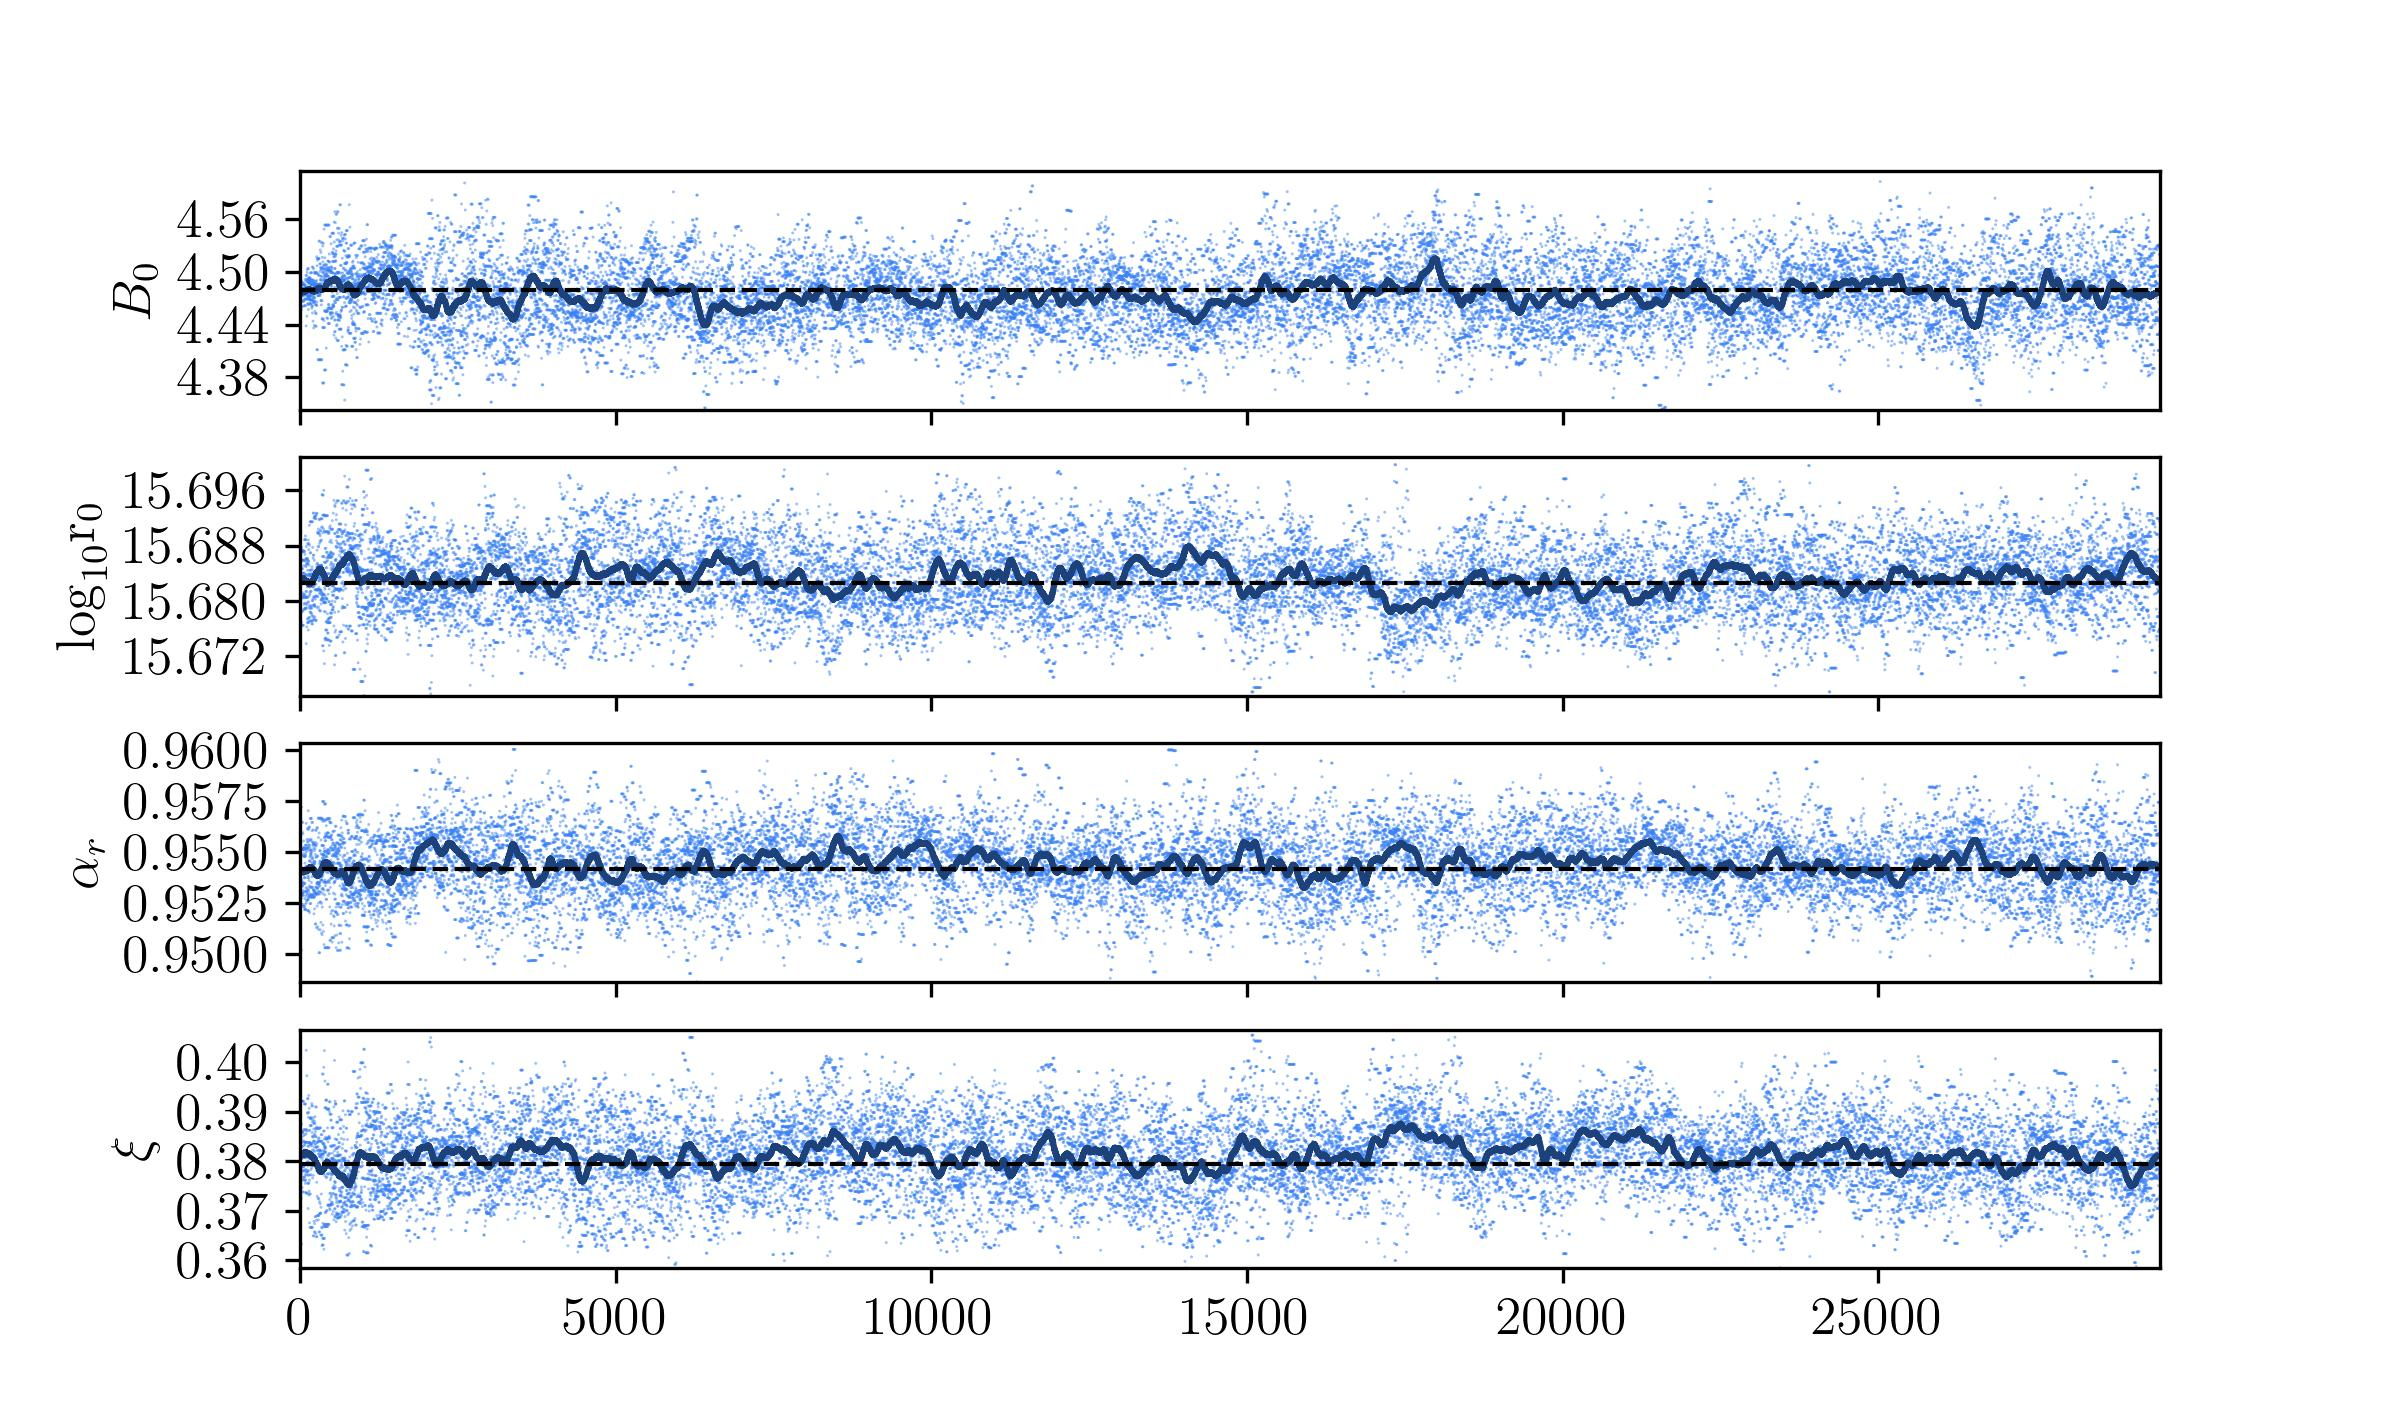
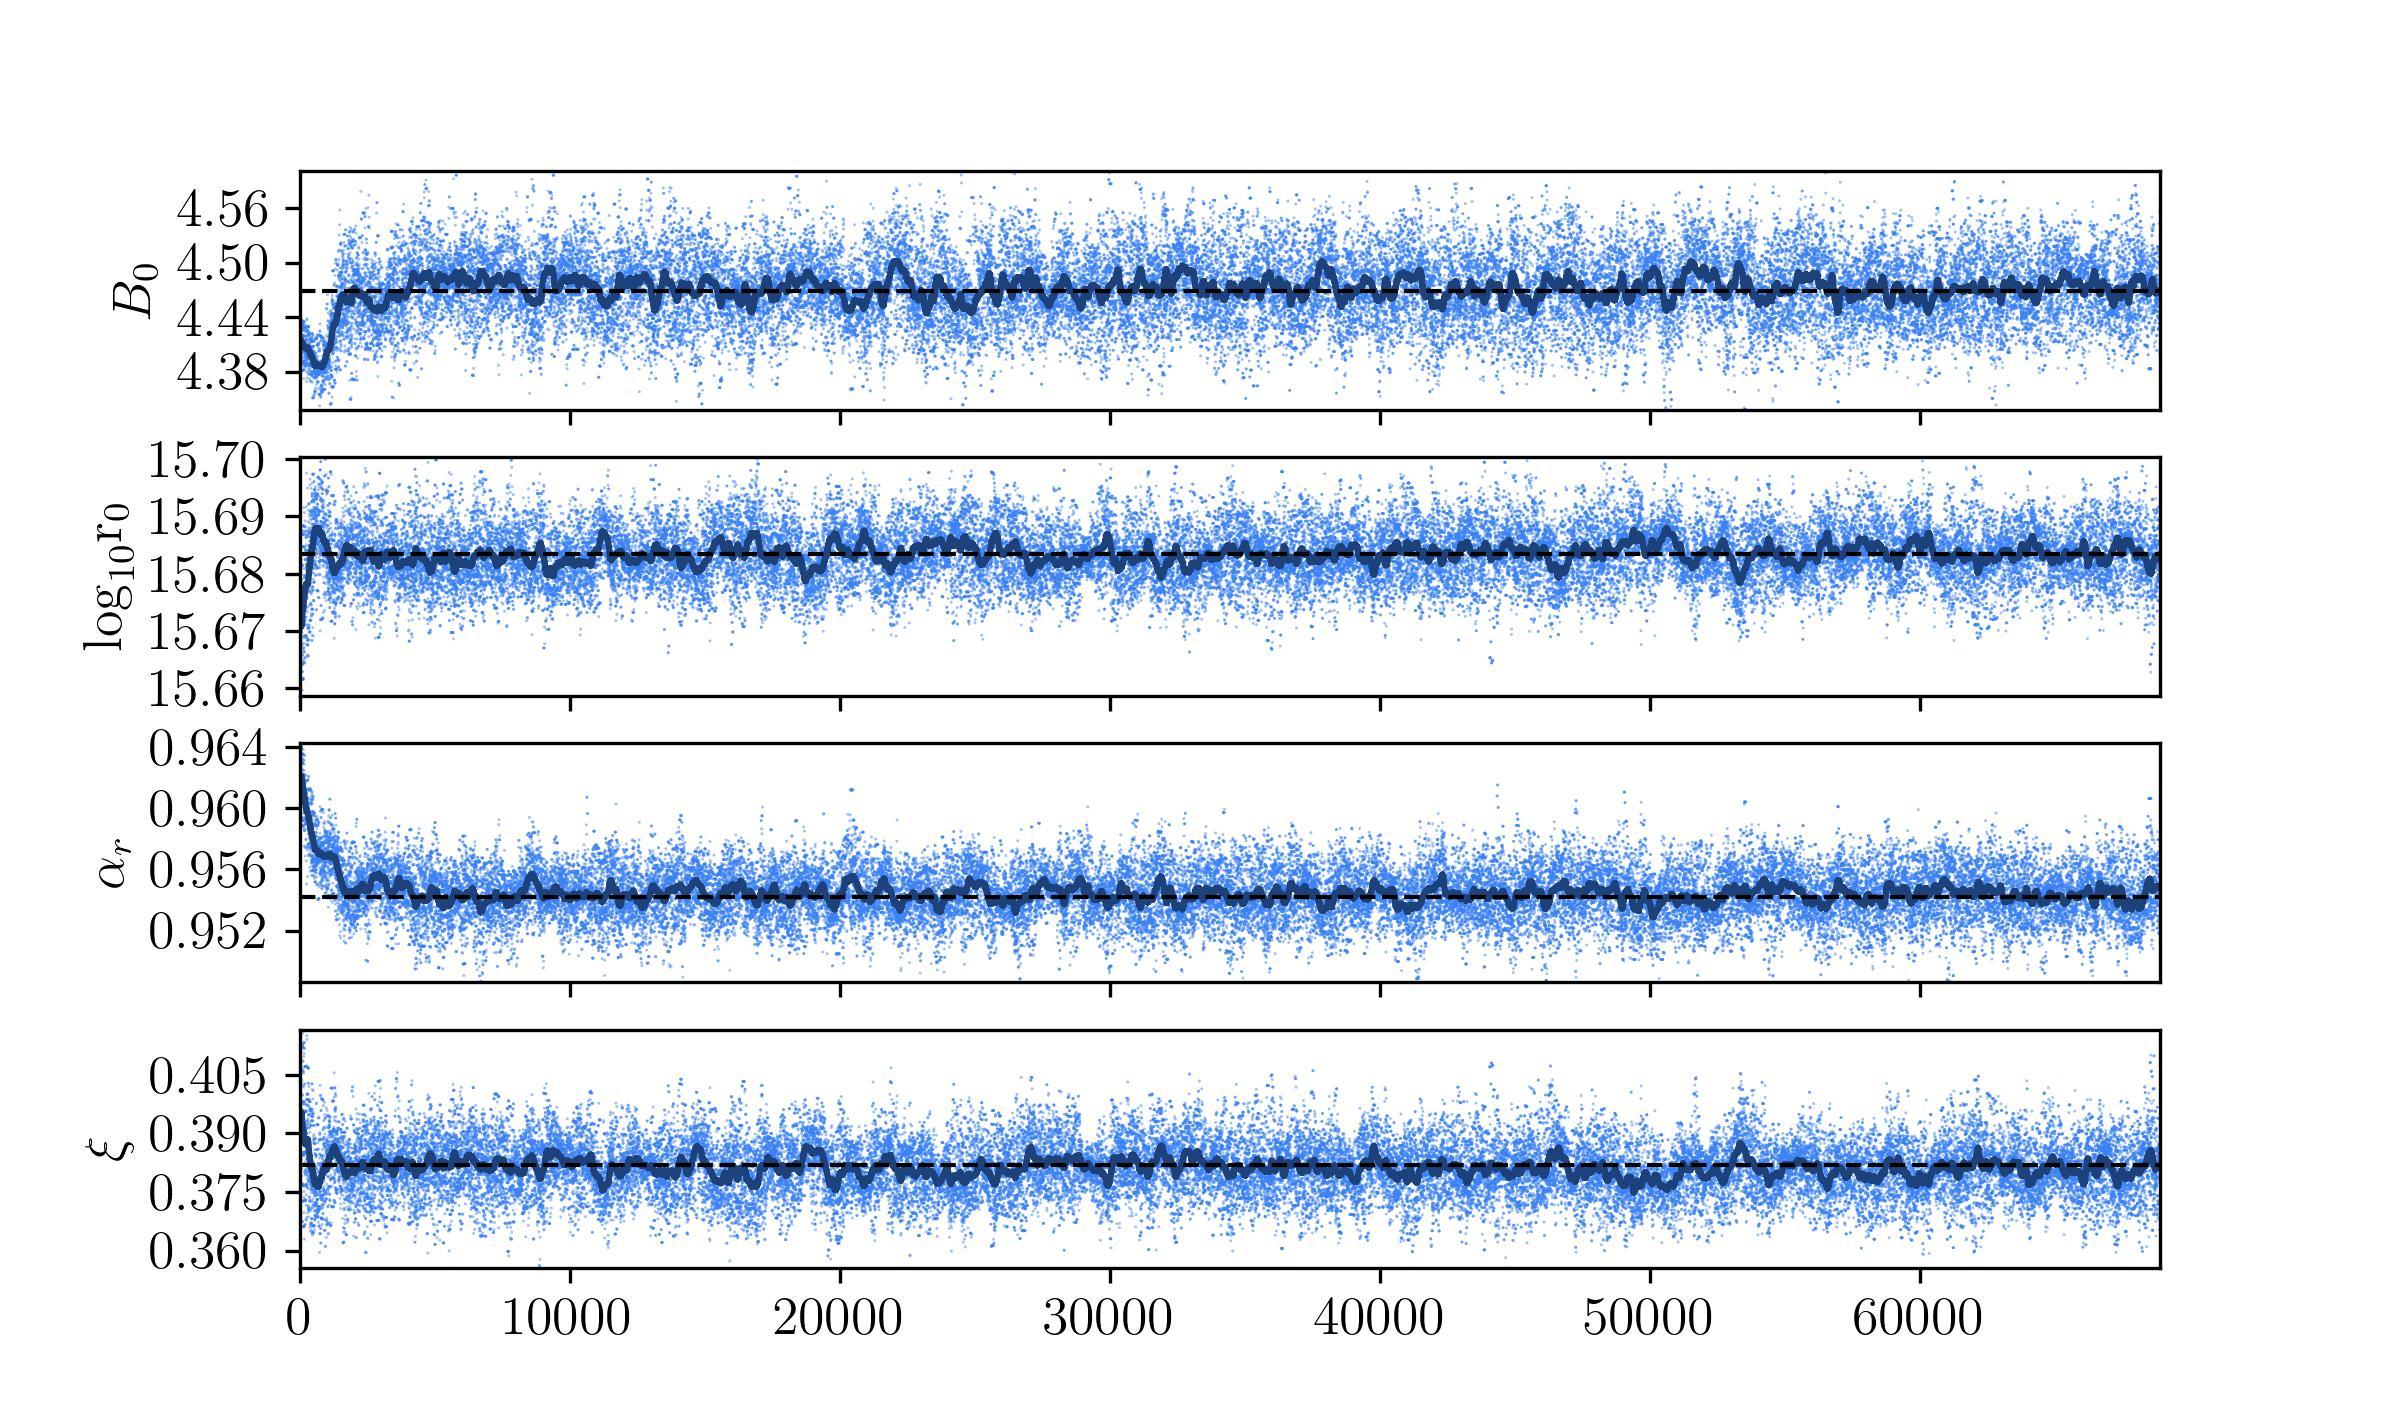
Corrected some errors in the plotting scripts and added a chi_sq calculation

diff --git a/plot_lc.py b/plot_lc.py
@@ -42,63 +42,40 @@ for i in range(len(uniq_freqs)):
 
 ## Borrow the physical parameters from Soderberg et al 2005 ()
 
+params = {
+    "d": ((92.0 * u.Mpc).to(u.cm)).value,  # cm ; distance to source
+    "t_0": 10,  # reference time 10 days since explosion
+    "eta": 10,  # shell radius to thickness factor
+    "B_0": 4.5,  # G
+    "r_0": 4.3e15,  # cm
+    "alpha_r": 0.96,
+    "p": 3.2,
+    "nu_m_0": 1e9,  # Hz
+    "s": 2.0,
+    "xi": 0.5,
+    "scriptF_0": 1.0,  # as we have eps_e = eps_B
+    "alpha_scriptF": 0.0,  # as we have eps_e = eps_B at all times
+    "to_interp": False,  # Whether to use interpolation from saved grid to speed up calculations of F2 and F3 functions
+}
+print(params)
+
+params_interp = params
+
+params_interp["to_interp"] = True
+
+print(params_interp)
+
 ## Main physical parameters ##
 
-d = ((92.0 * u.Mpc).to(u.cm)).value  # cm ; distance to source
-t_0 = 10  # reference time 10 days since explosion
-eta = 10  # shell radius to thickness factor
-
-B_0 = 4.5  # G
-r_0 = 4.3e15  # cm
-alpha_r = 0.96
-p = 3.2
-nu_m_0 = 1e9  # Hz
-log_nu_m_0 = np.log10(nu_m_0)
-s = 2.0
-xi = 0.5
-
-scriptF_0 = 1.0  # as we have eps_e = eps_B
-alpha_scriptF = 0.0  # as we have eps_e = eps_B at all times
+# as we have eps_e = eps_B at all times
 t = np.logspace(1, 3, 100)
 
 for i in range(len(uniq_freqs)):
-    ssa_fnu = SSA_flux_density(
-        t,
-        t_0,
-        uniq_freqs[i] * 1e9,
-        d,
-        eta,
-        B_0,
-        r_0,
-        alpha_r,
-        p,
-        nu_m_0,
-        s,
-        xi,
-        scriptF_0,
-        alpha_scriptF,
-        to_interp=False,
-    )
+    ssa_fnu = SSA_flux_density(t, uniq_freqs[i] * 1e9, **params)
 
     ax.plot(t, ssa_fnu, linewidth=1, color=colors[i])
 
-    ssa_fnu_interp = SSA_flux_density(
-        t,
-        t_0,
-        uniq_freqs[i] * 1e9,
-        d,
-        eta,
-        B_0,
-        r_0,
-        alpha_r,
-        p,
-        nu_m_0,
-        s,
-        xi,
-        scriptF_0,
-        alpha_scriptF,
-        to_interp=True,
-    )
+    ssa_fnu_interp = SSA_flux_density(t, uniq_freqs[i] * 1e9, **params_interp)
     ax.plot(
         t,
         ssa_fnu_interp,

diff --git a/plot_lc_best_fit.py b/plot_lc_best_fit.py
@@ -57,7 +57,7 @@ params = {
     "xi": 0.5,
     "scriptF_0": 1.0,  # as we have eps_e = eps_B
     "alpha_scriptF": 0.0,  # as we have eps_e = eps_B at all times
-    "to_interp": False, # Whether to use interpolation from saved grid to speed up calculations of F2 and F3 functions
+    "to_interp": True,  # Whether to use interpolation from saved grid to speed up calculations of F2 and F3 functions
 }
 
 best_fit_tab = Table.read("mcmc_best_fit_params.txt", format="ascii")
@@ -74,6 +74,28 @@ for i in range(len(best_fit_params)):
     else:
         params.update({best_fit_params[i]: best_fit_vals[i]})
 
+## Calculate chi_sq
+
+n_of_obs = len(times)
+n_of_fit_params = 4
+
+dof = n_of_obs - n_of_fit_params
+
+
+def calc_chi_sq(flux, flux_errs, model):
+    return np.sum(((flux - model) ** 2) / (flux_errs**2))
+
+
+model = SSA_flux_density(t=times, nu=freqs * 1e9, **params)
+
+chi_sq = calc_chi_sq(fluxes, fluxerrs, model)
+
+print("###############################")
+print("Degrees of freedom = ", dof)
+print("Chi_sq = ", chi_sq)
+print("Reduced chi_sq = ", chi_sq / dof)
+print("###############################")
+
 # Calculate errors on F_nu
 filename = "SN2003L.h5"
 reader = emcee.backends.HDFBackend(filename)
@@ -87,6 +109,7 @@ sel_best_fit_values = np.ones(len(samples)).astype("bool")
 labels = [r"$B_{{0}}$", r"$\rm{{log}}_{{10}}r_{{0}}$", r"$\alpha_{{r}}$", r"$\xi$"]
 
 tab_labels = ["B_0", "log_r_0", "alpha_r", "xi"]
+
 
 for i in range(len(labels)):
     sel_best_fit_values &= (ll_values[i] < samples[:, i]) & (
@@ -127,6 +150,7 @@ error_table = Table(
     names=["times", "freqs", "f_nu_ll", "f_nu_ul"],
 )
 
+error_table.write("error_table.txt", format="ascii")
 
 error_table = Table.read("error_table.txt", format="ascii")
 
@@ -140,6 +164,7 @@ for i in tqdm(range(len(uniq_freqs))):
 
     ssa_fnu = SSA_flux_density(t=t_range, nu=uniq_freqs[i] * 1e9, **params)
     ax.plot(t_range, ssa_fnu, linewidth=0.5, color=colors[i])
+
     ax.fill_between(
         error_times[sel_error_data],
         f_nu_ll[sel_error_data],

diff --git a/SSA_MCMC_fit.py b/SSA_MCMC_fit.py
@@ -32,7 +32,7 @@ fixed_params = {
     "s": 2.0,
     "scriptF_0": 1.0,  # as we have eps_e = eps_B
     "alpha_scriptF": 0.0,  # as we have eps_e = eps_B at all times
-    "to_interp": False, # Whether to use interpolation from saved grid to speed up calculations of F2 and F3 functions
+    "to_interp": True,  # Whether to use interpolation from saved grid to speed up calculations of F2 and F3 functions
 }
 
 # Variable parameters
@@ -128,8 +128,8 @@ def run_mcmc(
 ):
     t = times
     nu = freqs * 1e9  ### Make sure this is in Hz
-    F = fluxes  ### Make sure this is in mJy
-    F_err = fluxerrs  ### Make sure this is in mJy
+    F = fluxes  ### Make sure this is in uJy
+    F_err = fluxerrs  ### Make sure this is in uJy
 
     pos = get_starting_pos(guess_parameters, nwalkers, ndim=ndim)
 
@@ -188,9 +188,9 @@ method = "L-BFGS-B"
 nll = lambda *args: -lnlike(*args)
 better_guess_params = op.minimize(
     nll,
-    guess_paras,
+    guess_params,
     bounds=bounds,
-    args=(times, t_0, freqs * 1e9, fluxes, fluxerrs),
+    args=(times, freqs * 1e9, fluxes, fluxerrs),
     method=method,
     options={"disp": True},
 )
@@ -200,10 +200,10 @@ print(better_guess_params["x"])
 with Pool() as pool:
     sampler = run_mcmc(
         better_guess_params["x"],
-        niters=10,
+        niters=5000,
         nwalkers=10,
         ndim=4,
         pool=pool,
         backend_file="SN2003L.h5",
-        restart=False,
+        restart=True,
     )

diff --git a/PySSA.py b/PySSA.py
@@ -233,7 +233,7 @@ def calc_f_nu(t, t_0, C_f, alpha_r, alpha_B, tau_nu, xi, p, nu, F2, F3):
 
 
 def SSA_flux_density(
-    t, t_0, nu, d, eta, B_0, r_0, alpha_r, p, nu_m_0, s, xi, scriptF_0, alpha_scriptF
+    t, nu, t_0, d, eta, B_0, r_0, alpha_r, p, nu_m_0, s, xi, scriptF_0, alpha_scriptF
 , to_interp):
     """
     Returns SSA flux density (in uJy) as a function of time
@@ -249,7 +249,6 @@ def SSA_flux_density(
 
     nu_m = calc_nu_m(t, 10 ** (log_nu_m_0), t_0, alpha_gamma, alpha_B)
     x = (2.0 / 3.0) * (nu / nu_m)
-    print(x)
     if to_interp==False:
         F2 = calc_F_2(x, calc_F, p)
         F3 = calc_F_3(x, calc_F, p)

diff --git a/README.md b/README.md
@@ -4,23 +4,15 @@ Python implementation of the Sychrotron Self Absorbed (SSA) model from
 
 ## Usage 
 - Use `PySSA.py` to generate an SSA lightcurve for your choice of parameters. 
-- The `plot_lc.py` code allows you to make the lightcurve  plot. Here the example shown is to reproduce figure 2 of the above paper. 
 - The `comprehensive_soderberg_data.csv` file contains the relevant data from the above paper to plot the light curve for supernova 2003L.
-
+- The `plot_lc.py` code allows you to make the lightcurve  plot. Here the example shown is to reproduce figure 2 (only with model 1) of the above paper. 
 <p align="center">
   <img src="Soderberg_2005_figure2.jpg" width="70%"/> 
 </p>
 <p align="center">
-  Here is the output lightcurve. Compare this with Figure 2 of <a href="https://ui.adsabs.harvard.edu/abs/2005ApJ...621..908S/abstract">Soderberg et al. 2005</a>. The dashed curves are from the fast interpolation calculation.
+  Here is the output lightcurve. Compare this with Figure 2 (only with model 1) of <a href="https://ui.adsabs.harvard.edu/abs/2005ApJ...621..908S/abstract">Soderberg et al. 2005</a>. The dashed curves are from the fast interpolation calculation.
 </p>
-
 - Use `SSA_MCMC_fit.py` to perform fit of the SSA model. `MCMC_plotter.py` helps to plot the corner plot and the walks (see the package [ChainConsumer](https://samreay.github.io/ChainConsumer/)).
-- Use `plot_lc_best_fit.py` to plot the best fit returned by the SSA MCMC fitter. Also plot the error region for the best fit line.
-
-<p align="center">
-  <img src="Soderberg_2005_figure2_SSA_fit.jpg" width="70%"/> 
-</p>
-
 <p align="center">
   <img src="best_fit_corner_plot.jpg" width="70%"/> 
 </p>
@@ -30,13 +22,17 @@ Python implementation of the Sychrotron Self Absorbed (SSA) model from
 <p align="center">
   Corner plot (top) and walks (bottom) obtained after SSA fit on the SN2003L data <a href="https://ui.adsabs.harvard.edu/abs/2005ApJ...621..908S/abstract">Soderberg et al. 2005</a>
 </p>
+- Use `plot_lc_best_fit.py` to plot the best fit returned by the SSA MCMC fitter. Also plot the error region for the best fit line.
 
-### Calculations are now faster with a `to_interp` parameter in the `SSA_flux_density` function. The interpolated calculation is much faster $\mathcal{O}(10000)$ times faster and accurate to about $\mathcal{O}(10^{-5})$. 
+<p align="center">
+  <img src="Soderberg_2005_figure2_SSA_fit.jpg" width="70%"/> 
+</p>
+
+### Calculations are now faster with a `to_interp` parameter in the `SSA_flux_density` function. The interpolated calculation is much faster $\mathcal{O}(10000)$ and accurate to about $\mathcal{O}(10^{-5})$. 
 
 
 ## To do
-
-- Update x grid for interpolation to values greater than 700 for better interpolation.
 - Add list of dependancies 
+- Comment code for better readability
 
 
